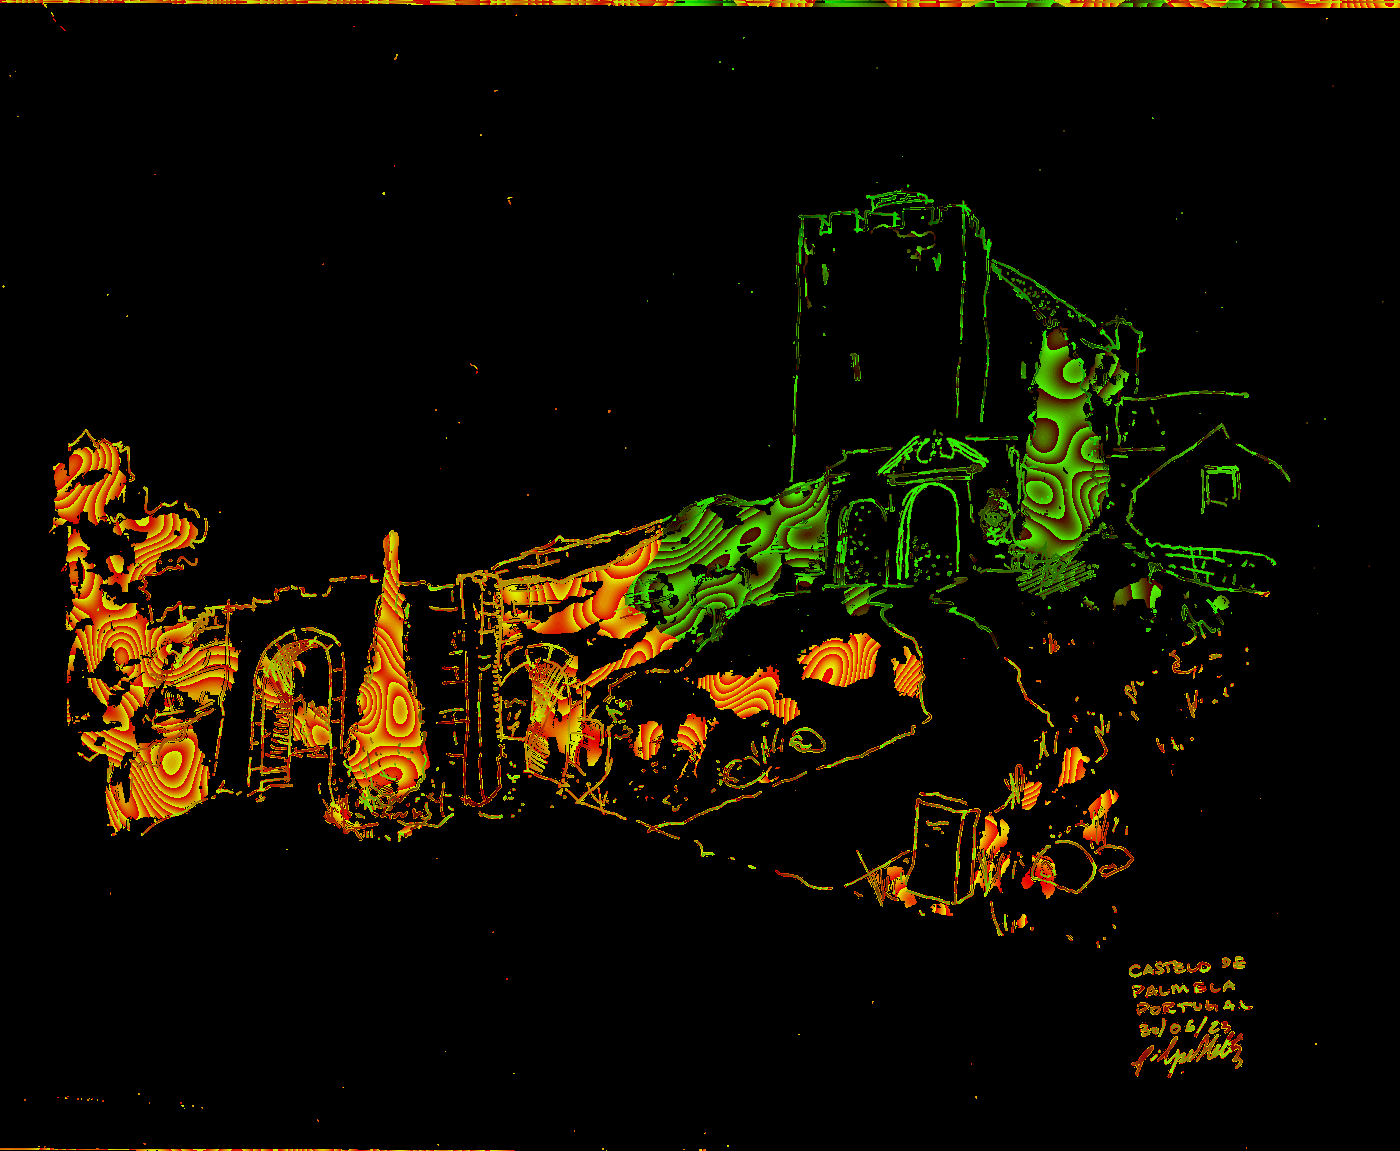
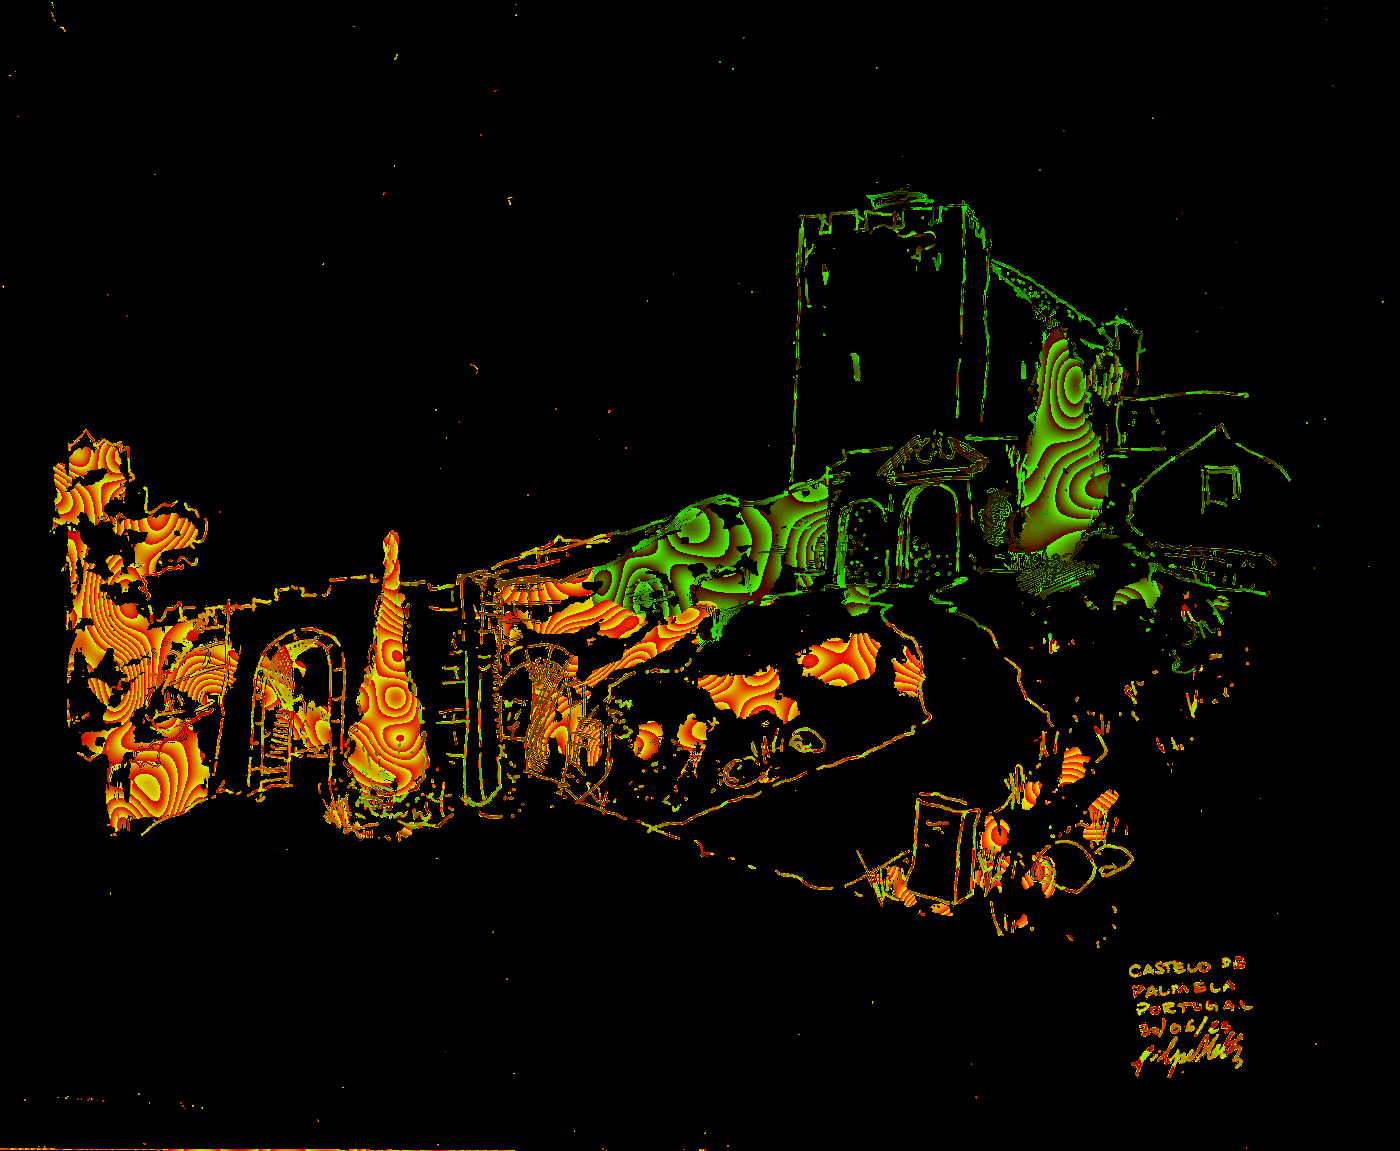
Palmela sketch: remove the stray line along the top edge
Claude-Session: https://claude.ai/code/session_01WM6uxK1NEqAWShwuwggTNP

diff --git a/assets/data/draw.js b/assets/data/draw.js
@@ -137,7 +137,7 @@ window.DRAW = {
   "h": 1151,
   "steps": [
    0.0,
-   0.35
+   0.3915
   ],
   "w": 1400
  },
